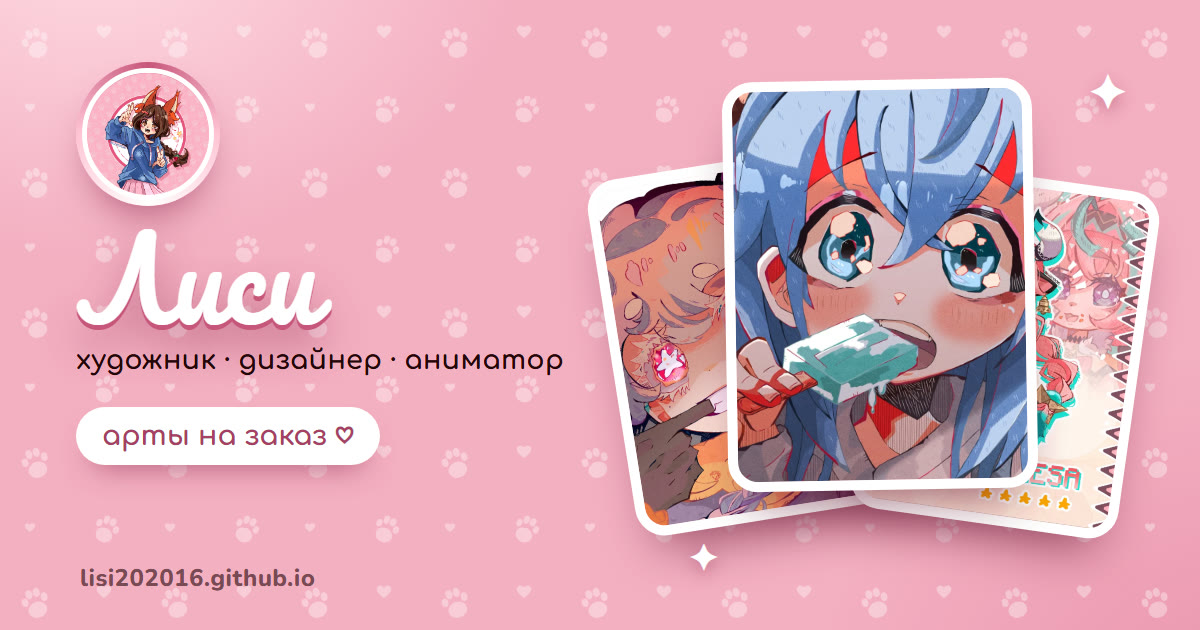
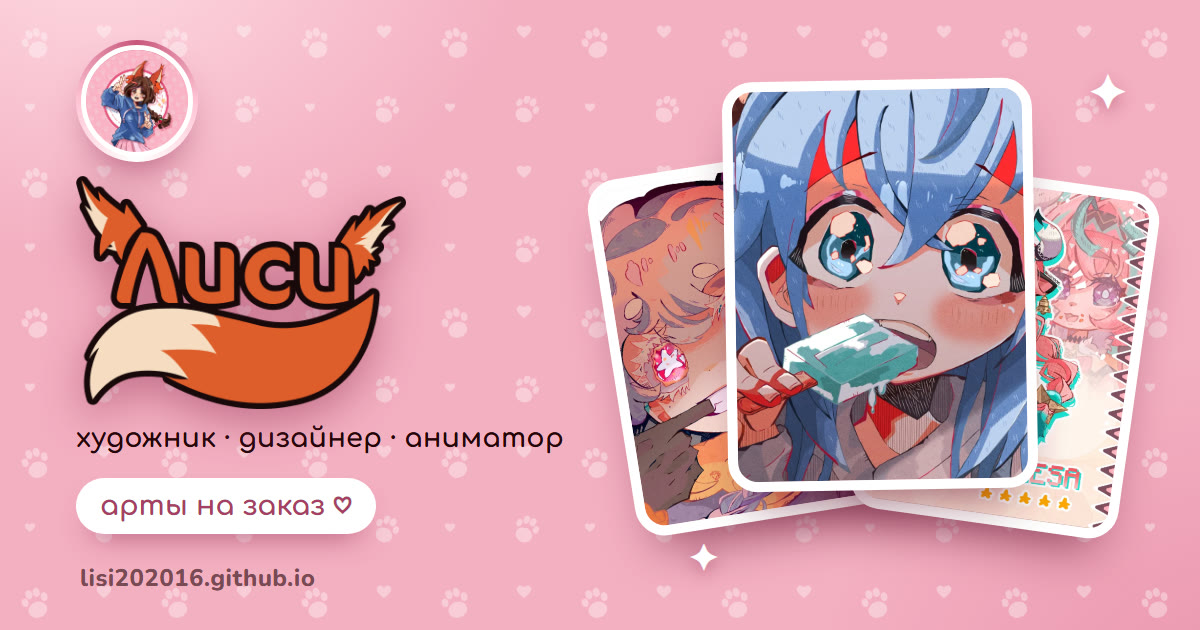
Сайт: логотип Лиси в шапке, на заставке и в превью ссылки

Changed region(s): [[0.0617, 0.0603, 0.4625, 0.8746]]

diff --git a/app.js b/app.js
@@ -194,6 +194,7 @@
 
   function localize(d) {
     d.profile.avatar = asset(d.profile.avatar);
+    d.profile.logo = asset(d.profile.logo);
     d.profile.cover = asset(d.profile.cover);
     d.music.src = asset(d.music.src);
     d.commissions.categories.forEach(function (c) {
@@ -208,8 +209,23 @@
   // ---------------------------------------------------------- шапка и ссылки
 
   var profile = data.profile;
+
+  // логотип вместо имени; не загрузился — возвращаем имя текстом
+  function showName(box, cls) {
+    if (!profile.logo) {
+      box.textContent = profile.name;
+      return;
+    }
+    var logo = el('img', { class: cls, alt: profile.name || 'Лиси', decoding: 'async', draggable: 'false' });
+    box.classList.add('has-logo');
+    box.replaceChildren(logo);
+    setImage(logo, profile.logo, 720, function () {
+      box.classList.remove('has-logo');
+      box.textContent = profile.name;
+    });
+  }
   document.title = profile.name ? profile.name + ' ♡' : document.title;
-  $('name').textContent = profile.name;
+  showName($('name'), 'hero__logo');
   $('roles').textContent = profile.roles;
   $('greeting').textContent = profile.greeting;
   $('orderButtonText').textContent = profile.orderButton || 'заказать арт';
@@ -963,7 +979,7 @@
   if (hasMusic) {
     // браузер не даст включить звук без действия человека — поэтому заставка
     $('gateText').textContent = data.site.gateText || 'нажми, чтобы войти';
-    $('gateName').textContent = profile.name;
+    showName($('gateName'), 'gate__logo');
     $('gate').hidden = false;
     $('gate').addEventListener('click', function () { enter(true); });
     $('gateQuiet').addEventListener('click', function (e) {

diff --git a/index.html b/index.html
@@ -10,7 +10,7 @@
   <meta property="og:type" content="website">
   <meta property="og:title" content="Лиси ♡">
   <meta property="og:description" content="Приветики меня зовут Лиси, я художник дизайнер. Ниже вы найдете ссылки на все мои соц. сети ~ ₊˚☁ ╮">
-  <meta property="og:image" content="https://lisi202016.github.io/preview.jpg?v=ae85cde5fa">
+  <meta property="og:image" content="https://lisi202016.github.io/preview.jpg?v=bc0146a303">
   <meta property="og:image:width" content="1200">
   <meta property="og:image:height" content="630">
   <meta property="og:image:alt" content="Лиси — художник · дизайнер · аниматор">
@@ -21,7 +21,7 @@
   <link rel="preconnect" href="https://fonts.googleapis.com">
   <link rel="preconnect" href="https://fonts.gstatic.com" crossorigin>
   <link rel="stylesheet" href="https://fonts.googleapis.com/css2?family=Comfortaa:wght@500;700&family=Nunito:ital,wght@0,400;0,600;0,700;0,800;1,400&family=Pacifico&display=swap">
-  <link rel="stylesheet" href="style.css?v=d93c35b8eb">
+  <link rel="stylesheet" href="style.css?v=196b5d4f45">
   <noscript><style>.page > *{opacity:1 !important;transform:none !important}</style></noscript>
 </head>
 <body>
@@ -200,6 +200,6 @@
   <audio id="audio" preload="auto"></audio>
   <script src="shared/icons.js?v=23fee92cb8"></script>
   <script src="config.js?v=b3fc433374"></script>
-  <script src="app.js?v=a9ce3ee91b"></script>
+  <script src="app.js?v=a231195f2d"></script>
 </body>
 </html>

diff --git a/style.css b/style.css
@@ -293,6 +293,26 @@ button { font: inherit; color: inherit; }
   text-shadow: 0 4px 0 var(--rose);
   overflow-wrap: anywhere;
 }
+/* логотип вместо имени: тонкая белая кромка, чтобы чёрный контур читался на тёмной шапке */
+.hero__name.has-logo, .gate__name.has-logo { line-height: 0; text-shadow: none; }
+.hero__name.has-logo { margin: 6px 0 4px; }
+.hero__logo {
+  display: block;
+  width: 330px;
+  max-width: 100%;
+  height: auto;
+  filter: drop-shadow(0 0 1px rgba(255, 255, 255, 0.95)) drop-shadow(0 0 1px rgba(255, 255, 255, 0.95)) drop-shadow(0 16px 24px rgba(0, 0, 0, 0.45));
+  transform-origin: 50% 75%;
+  transition: transform 0.6s var(--spring);
+}
+.hero__logo:hover { transform: rotate(-3deg) scale(1.04); }
+.gate__logo {
+  display: block;
+  width: min(290px, 72vw);
+  height: auto;
+  filter: drop-shadow(0 14px 24px rgba(140, 36, 76, 0.45));
+  animation: bob 3.4s ease-in-out 0.4s infinite;
+}
 .hero__greeting {
   margin: 8px 0 24px;
   max-width: 44ch;
@@ -1054,6 +1074,7 @@ button { font: inherit; color: inherit; }
   .hero__body { flex-direction: column; gap: 22px; text-align: center; }
   .avatar { width: 160px; height: 160px; }
   .hero__name { font-size: 52px; }
+  .hero__logo { width: 250px; max-width: 72vw; margin-inline: auto; }
   .hero__greeting { margin-inline: auto; font-size: 16px; }
   .hero__actions { justify-content: center; }
   .hero__cover::after { background: linear-gradient(0deg, rgba(36, 6, 10, 0.92) 0%, rgba(36, 6, 10, 0.55) 100%); }
